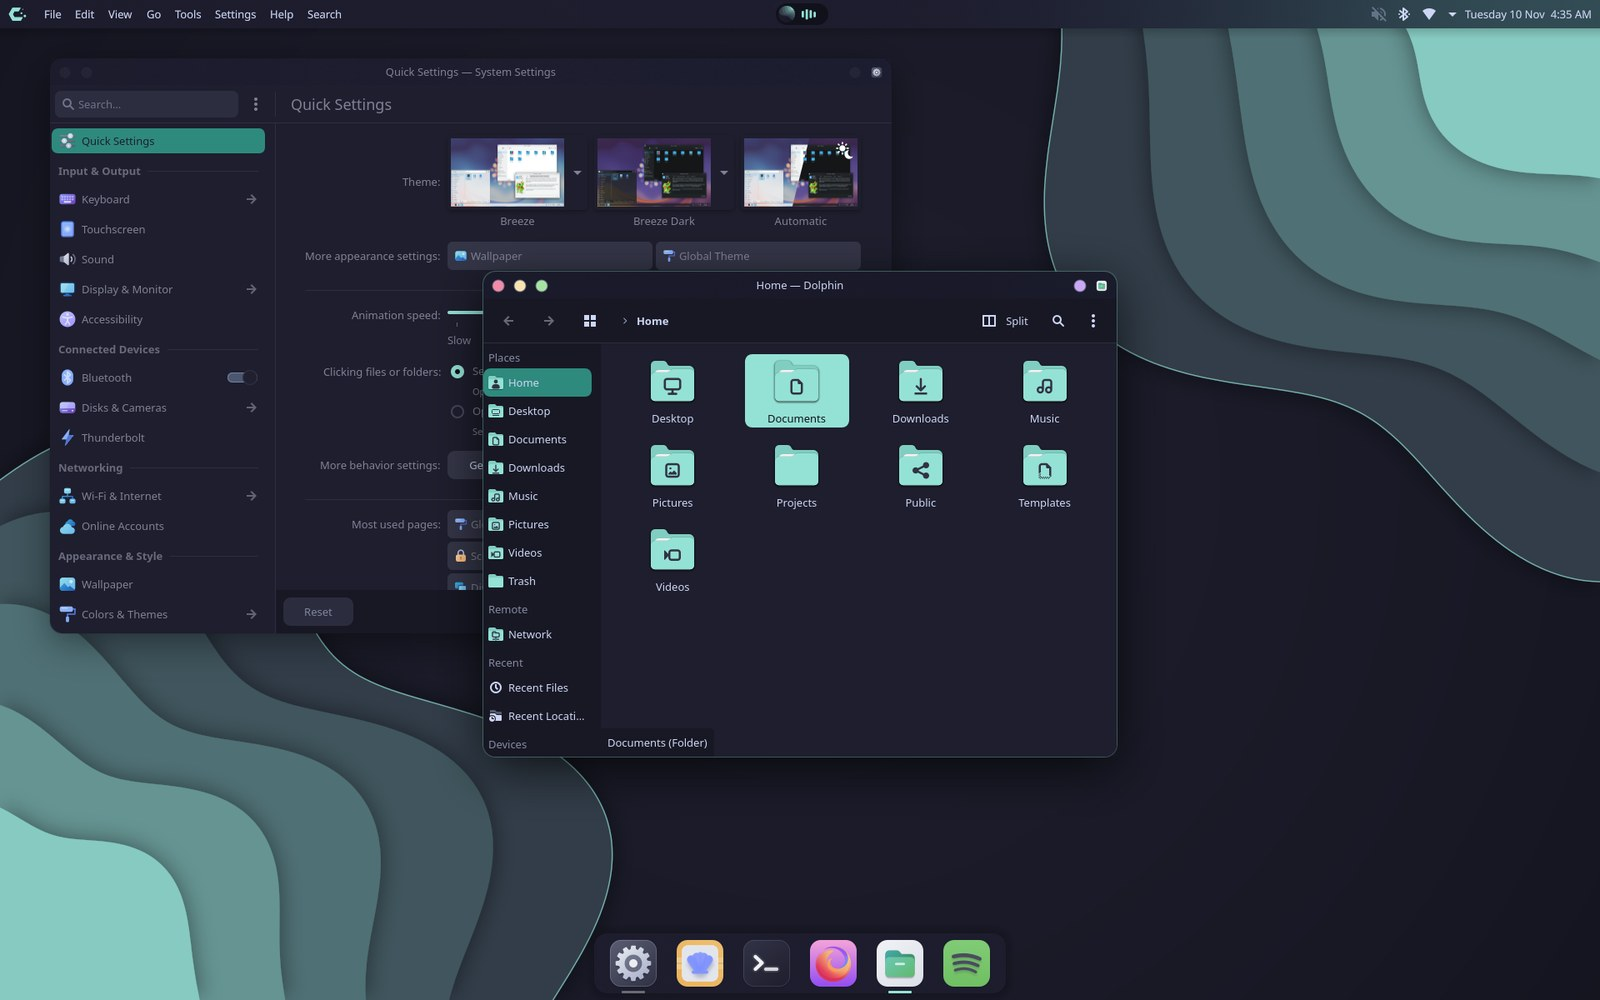
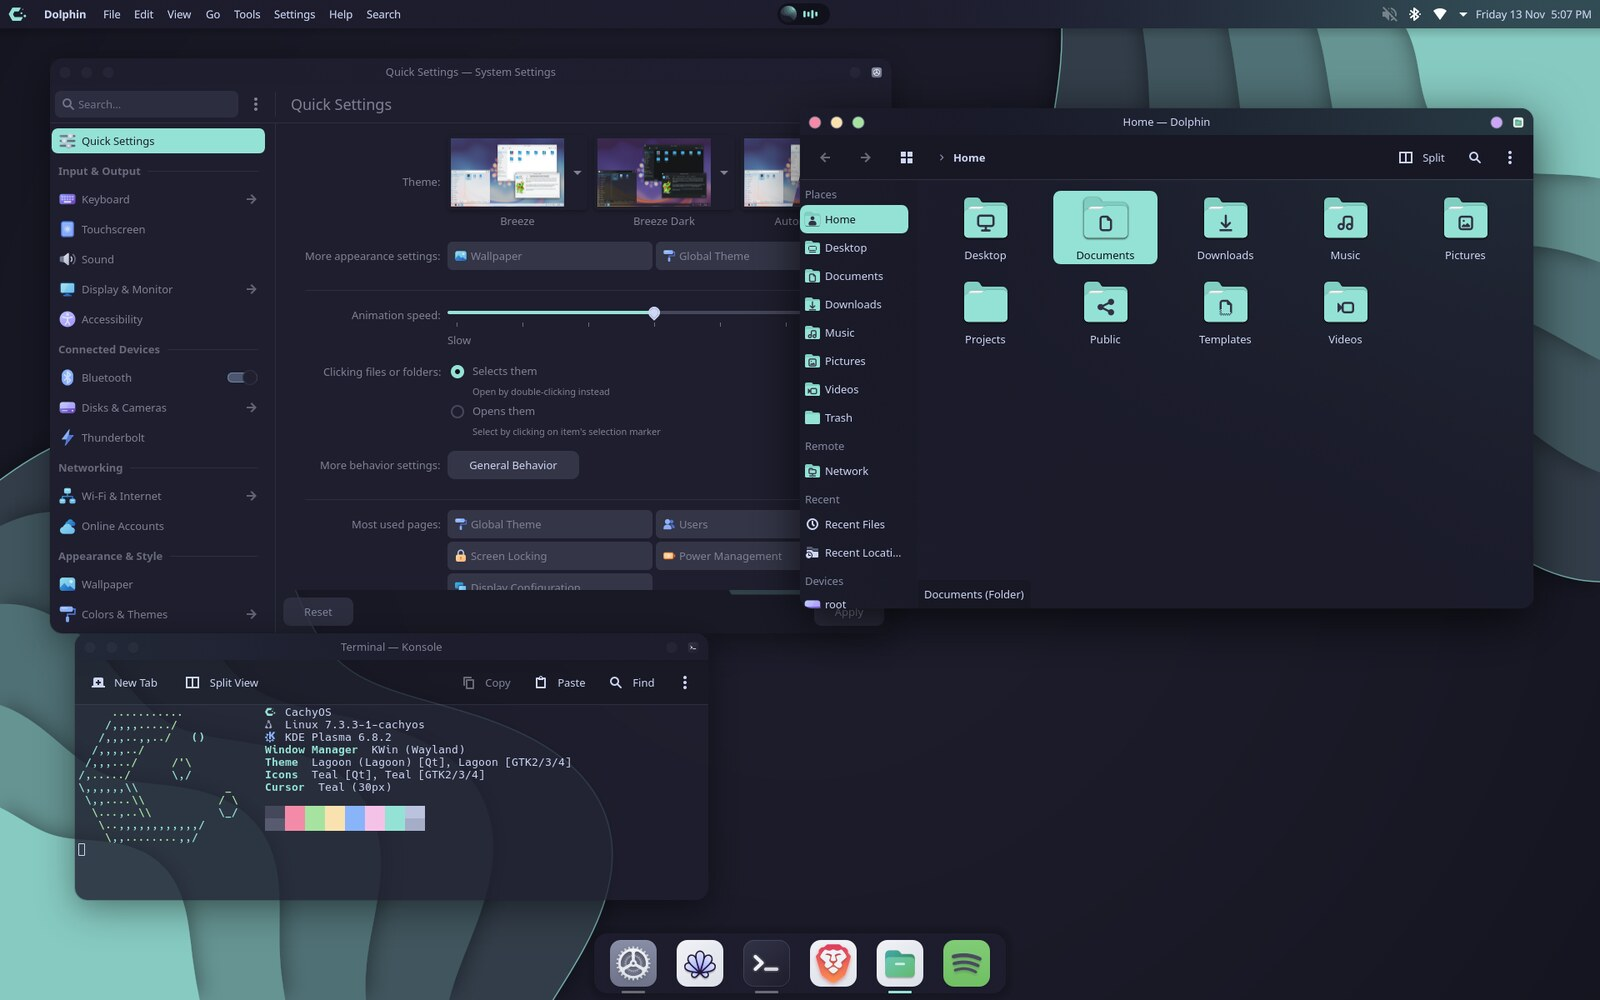
GTK 3 menus and tooltips blurred like Qt's; the GTK builder only replaces its own folders; README: a section for GTK apps, the cursors' sheet, and a desktop shot with the translucent windows

diff --git a/tools/cursor-sheet.py b/tools/cursor-sheet.py
@@ -1,0 +1,73 @@
+#!/usr/bin/env python3
+"""La planche des curseurs Teal pour le README : les plus courants côte à côte, avec leur nom,
+sur le fond Mocha de la planche des icônes (screenshots/teal-icons.png). Une rangée de plus les
+pose sur l'accent teal et sur un fond clair : on les voit partout.
+
+usage : tools/cursor-sheet.py <dossier cursors_scalable des curseurs construits> <sortie.png>
+ex.   : tools/cursor-sheet.py dist/Lagoon/share/icons/Teal-cursors/cursors_scalable screenshots/teal-cursors.png
+Nécessite rsvg-convert et Pillow.
+"""
+import json
+import subprocess
+import sys
+import tempfile
+from pathlib import Path
+
+from PIL import Image, ImageDraw, ImageFont
+
+BASE, SURFACE0, SUBTEXT, TEAL, LATTE = "#1e1e2e", "#313244", "#a6adc8", "#94e2d5", "#eff1f5"
+FONT = "/usr/share/fonts/inter/Inter.ttc"
+SCALE = 3          # leur taille nominale (24 px) agrandie trois fois
+CELL, ROW = 147, 150
+
+CURSORS = [("default", "Default"), ("pointer", "Link"), ("text", "Text"), ("wait", "Busy"),
+           ("progress", "Working"), ("help", "Help"), ("crosshair", "Crosshair"), ("openhand", "Grab"),
+           ("closedhand", "Grabbing"), ("not-allowed", "Not allowed"), ("all-scroll", "Move"),
+           ("ew-resize", "Resize"), ("nwse-resize", "Diagonal"), ("copy", "Copy"), ("zoom-in", "Zoom"),
+           ("color-picker", "Color picker")]
+# la dernière rangée : le curseur par défaut, la main et le texte sur l'accent et sur du clair
+ON = [(TEAL, "default"), (TEAL, "pointer"), (TEAL, "text"), (TEAL, "openhand"),
+      (LATTE, "default"), (LATTE, "pointer"), (LATTE, "text"), (LATTE, "openhand")]
+
+
+def render(folder, name, tmp):
+    """Le curseur (la première image d'un animé) à SCALE fois sa taille."""
+    d = folder / name
+    meta = json.loads((d / "metadata.json").read_text())[0]
+    size = meta["nominal_size"] * SCALE
+    out = Path(tmp) / f"{name}.png"
+    subprocess.run(["rsvg-convert", "-w", str(size), "-h", str(size), str(d / meta["filename"]), "-o", str(out)],
+                   check=True)
+    # rognée à ce qu'elle montre, pour la centrer (le point chaud la pousse dans un coin)
+    image = Image.open(out).convert("RGBA")
+    image = image.crop(image.getbbox())
+    return image, image.size
+
+
+def main():
+    folder, output = Path(sys.argv[1]), Path(sys.argv[2])
+    columns = 8
+    rows = -(-len(CURSORS) // columns)
+    width, height = columns * CELL, (rows + 1) * ROW + 10
+    sheet = Image.new("RGBA", (width, height), BASE)
+    draw = ImageDraw.Draw(sheet)
+    font = ImageFont.truetype(FONT, 15, index=0)
+    with tempfile.TemporaryDirectory() as tmp:
+        for i, (name, label) in enumerate(CURSORS):
+            x, y = (i % columns) * CELL, (i // columns) * ROW
+            image, (w, h) = render(folder, name, tmp)
+            sheet.alpha_composite(image, (x + (CELL - w) // 2, y + 18 + (72 - h) // 2))
+            tw = draw.textlength(label, font=font)
+            draw.text((x + (CELL - tw) / 2, y + 100), label, font=font, fill=SUBTEXT)
+        # sur l'accent et sur du clair : une pastille par fond, comme une sélection
+        y = rows * ROW + 16
+        for i, (background, name) in enumerate(ON):
+            x = i * CELL
+            draw.rounded_rectangle((x + 14, y, x + CELL - 14, y + ROW - 32), radius=13, fill=background)
+            image, (w, h) = render(folder, name, tmp)
+            sheet.alpha_composite(image, (x + (CELL - w) // 2, y + (ROW - 32 - h) // 2))
+    sheet.convert("RGB").save(output, optimize=True)
+
+
+if __name__ == "__main__":
+    main()

diff --git a/gtk/build-gtk.py b/gtk/build-gtk.py
@@ -57,6 +57,7 @@ def alpha(color, a):
 
 FRAME_ALPHA = 0.95        # fond des fenêtres sans flou : le fond d'écran n'en est qu'une trace
 BLUR_FRAME_ALPHA = 0.8    # floutées (applis GTK 3, gtk/lagoonblur.c) : comme les applis Qt
+BLUR_POPUP_ALPHA = 0.75   # leurs menus et infobulles, floutés aussi : comme ceux de Qt et Plasma
 VIEW_ALPHA = 0.5          # vues et listes encadrées, posées sur le cadre, comme dans Kvantum
 FRAME = alpha(MANTLE, FRAME_ALPHA)
 
@@ -291,7 +292,7 @@ def gtk3_css(adw):
     out.append(recolored(adw, lambda s: KNOB.search(s) and not OSD.search(s), knob))
     out.append(switches(""))
     out.append(recolored(adw, OSD.search, osd3))
-    out.append("\n/* tooltips: opaque, in Mocha base like Plasma's */\n")
+    out.append("\n/* tooltips in Mocha base, like Plasma's; translucent when KWin blurs them (lagoon-blur.css) */\n")
     out.append(rule(["tooltip"], "text-shadow: none"))
     out.append(rule(["tooltip.background"], f"background-color: {BASE}", f"border-color: {SURFACE0}"))
     out.append(rule(["tooltip *"], f"color: {TEXT}"))
@@ -343,7 +344,7 @@ def gtk4_css(adw):
     out.append(recolored(adw, lambda s: KNOB.search(s) and not re.search(r"scale\.color|\.osd", s), knob))
     out.append(switches(">"))
     out.append(recolored(adw, OSD.search, osd4))
-    out.append("\n/* tooltips: opaque, in Mocha base like Plasma's */\n")
+    out.append("\n/* tooltips in Mocha base, like Plasma's; opaque: GTK 4 apps can't ask KWin to blur them */\n")
     out.append(rule(["tooltip.background"], f"background-color: {BASE}", f"color: {TEXT}",
                     f"border-color: {SURFACE0}"))
     out.append("\n/* window buttons: red, yellow and green dots like the Catppuccin decoration, glyph on hover */\n")
@@ -370,7 +371,7 @@ def gtk4_css(adw):
 
 def blur_css():
     """GTK 3 windows that KWin blurs (gtk/lagoonblur.c loads this sheet, above the theme): the
-    frame at BLUR_FRAME_ALPHA, like Qt windows. The bars that paint the frame's color over the
+    frame at BLUR_FRAME_ALPHA, like Qt windows, menus and tooltips at BLUR_POPUP_ALPHA. The bars that paint the frame's color over the
     window's own background let it show through instead, as Kvantum's toolbars do: on top of it,
     translucent, they would make darker bands."""
     # GTK 3 resolves a sheet's named colors within that sheet: redefined here, they would not
@@ -382,6 +383,8 @@ def blur_css():
                      ".inline-toolbar", "searchbar > revealer > box", ".location-bar", "notebook > header",
                      "menubar", ".menubar", ".sidebar", "paned > separator.wide", "tabbar .box"],
                     "background-color: transparent"))
+    # menus and tooltips, separate surfaces that the module has KWin blur too
+    out.append(rule(["menu", "tooltip.background"], f"background-color: {alpha(BASE, BLUR_POPUP_ALPHA)}"))
     return "".join(out)
 
 
@@ -401,8 +404,9 @@ ButtonLayout=close,minimize,maximize:
 def main():
     src, themes, name = Path(sys.argv[1]), Path(sys.argv[2]), sys.argv[3]
     dst = themes / name
-    shutil.rmtree(dst, ignore_errors=True)
+    # ses dossiers seulement : le thème Kvantum et le plugin Qt vivent à côté (build.sh)
     for gtk in ("gtk-3.0", "gtk-4.0"):
+        shutil.rmtree(dst / gtk, ignore_errors=True)
         shutil.copytree(src / gtk, dst / gtk)
     (dst / "index.theme").write_text(INDEX.format(name=name))
 

diff --git a/gtk/lagoonblur.c b/gtk/lagoonblur.c
@@ -12,7 +12,8 @@
 // comme les siens (en haut seulement, sauf fenêtre .unified), sauf maximisée, en mosaïque ou en
 // plein écran.
 //
-// Wayland seulement ; les menus, popovers et infobulles restent opaques.
+// Les menus et les infobulles aussi, des surfaces à part, à 75 % comme ceux de Qt et de Plasma
+// (lagoon-blur.css) ; les popovers, dessinés dans leur fenêtre, restent opaques. Wayland seulement.
 #include <gtk/gtk.h>
 #include <gdk/gdkwayland.h>
 #include <math.h>
@@ -22,6 +23,7 @@
 #define BLUR_KEY "lagoon-blur"
 #define TRACKED_KEY "lagoon-blur-tracked"
 #define WINDOW_RADIUS 15     // les coins des fenêtres dans adw-gtk3 (window.csd), comme Klassy
+#define POPUP_RADIUS 9       // ceux des menus et des infobulles (gtk/build-gtk.py)
 #define THEME "Lagoon"
 
 typedef struct {
@@ -159,6 +161,28 @@ static void union_allocation (GtkWidget *widget, GdkRectangle *area, gboolean *f
   *found = TRUE;
 }
 
+// menu ou infobulle : la place de leur fond ; les autres fenêtres surgissantes (complétion…)
+// restent telles quelles
+static gboolean popup_area (GtkWidget *window, GdkRectangle *area)
+{
+  GtkWidget *child = gtk_bin_get_child (GTK_BIN (window));
+
+  if (GTK_IS_MENU (child)) {
+    // le menu, sans sa marge CSS (comprise dans son allocation)
+    GtkStyleContext *style = gtk_widget_get_style_context (child);
+    GtkBorder margin;
+    gtk_style_context_get_margin (style, gtk_style_context_get_state (style), &margin);
+    gtk_widget_get_allocation (child, area);
+    area->x += margin.left;
+    area->y += margin.top;
+    area->width -= margin.left + margin.right;
+    area->height -= margin.top + margin.bottom;
+    return TRUE;
+  }
+  // l'infobulle est la fenêtre elle-même
+  return g_strcmp0 (gtk_widget_class_get_css_name (GTK_WIDGET_GET_CLASS (window)), "tooltip") == 0;
+}
+
 static void update (GtkWidget *window)
 {
   GdkWindow *gdk_window = gtk_widget_get_window (window);
@@ -178,7 +202,11 @@ static void update (GtkWidget *window)
   // décoration dessinée par GTK : la fenêtre sans son ombre, celle de sa barre de titre et de
   // son contenu, aux coins arrondis
   GtkStyleContext *style = gtk_widget_get_style_context (window);
-  if (gtk_style_context_has_class (style, "csd")) {
+  if (gtk_window_get_window_type (GTK_WINDOW (window)) == GTK_WINDOW_POPUP) {
+    if (!popup_area (window, &area))
+      return;
+    top = bottom = MIN (POPUP_RADIUS, MIN (area.width, area.height) / 2);
+  } else if (gtk_style_context_has_class (style, "csd")) {
     gboolean found = FALSE;
     union_allocation (gtk_window_get_titlebar (GTK_WINDOW (window)), &area, &found);
     union_allocation (gtk_bin_get_child (GTK_BIN (window)), &area, &found);
@@ -249,7 +277,7 @@ static gboolean on_map (GSignalInvocationHint *hint, guint n_values, const GValu
 {
   GObject *object = g_value_get_object (&values[0]);
 
-  if (!GTK_IS_WINDOW (object) || gtk_window_get_window_type (GTK_WINDOW (object)) != GTK_WINDOW_TOPLEVEL)
+  if (!GTK_IS_WINDOW (object))
     return TRUE;
   if (!initialized)
     init_display (gtk_widget_get_display (GTK_WIDGET (object)));

diff --git a/README.md b/README.md
@@ -49,6 +49,10 @@ everything in one download.
 
 *[Teal](https://github.com/elomkdn/teal-icons), the icon theme that comes with Lagoon.*
 
+![Teal, the cursors that come with Lagoon, on Mocha, on the teal accent and on a light background](screenshots/teal-cursors.png)
+
+*The Teal cursors: a thick dark outline keeps them clear on the teal accent and on light pages.*
+
 ## Install
 
 1. Get the theme, either way:
@@ -176,18 +180,22 @@ toolbars in mantle, views in base. Windows are translucent and blurred: their ma
 at 80 %, the title bar's opacity with Klassy, so that the title bar and the toolbar read as one;
 views lay their base over it at half opacity, so content still stands out from its frame. Menus
 and tooltips are translucent and blurred in Mocha base, like Plasma's popups. Apps that draw
-video or OpenGL keep opaque windows.
+video or OpenGL keep opaque windows. Selections are teal with dark text, as in GTK and
+Kirigami apps, softer in inactive windows.
+
+## GTK apps
+
+The GTK theme is the libadwaita look of [adw-gtk3](https://github.com/lassekongo83/adw-gtk3),
+in the same tones as Qt apps; libadwaita apps read the same palette.
 
 KWin only blurs behind windows that ask for it, and GTK never does. Lagoon's GTK 3 module asks
 for it on behalf of every GTK 3 app (`gtk/lagoonblur.c`, with the standard
 `ext-background-effect` protocol, or KDE's own before KWin 6.8): while KWin blurs, their windows
-are translucent at 80 % like Qt windows, header bars and toolbars included. GTK 4 dropped
-modules, so GTK 4 and libadwaita apps can't ask: their windows stay at 95 %, a hint of
-translucency that keeps the sharp wallpaper behind them from showing through. So do GTK 3
-apps when KWin's blur effect is off. Firefox, Electron and Kirigami apps (System Settings,
-Discover) stay opaque.
-Selections are teal with dark text, as in GTK and Kirigami apps, softer in inactive
-windows.
+are translucent at 80 % like Qt windows, header bars and toolbars included, and their menus and
+tooltips at 75 % like Qt's and Plasma's. GTK 4 dropped modules, so GTK 4 and libadwaita apps
+can't ask: their windows stay at 95 %, a hint of translucency that keeps the sharp wallpaper
+behind them from showing through, and their menus opaque. So do GTK 3 apps when KWin's blur
+effect is off. Firefox, Electron and Kirigami apps (System Settings, Discover) stay opaque.
 
 ## In this repository
 
